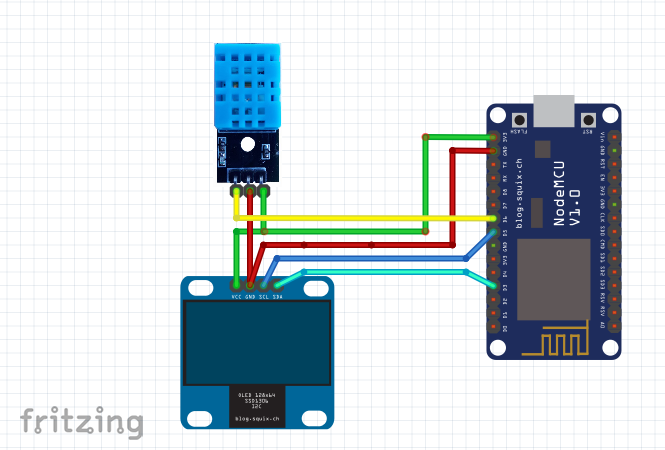
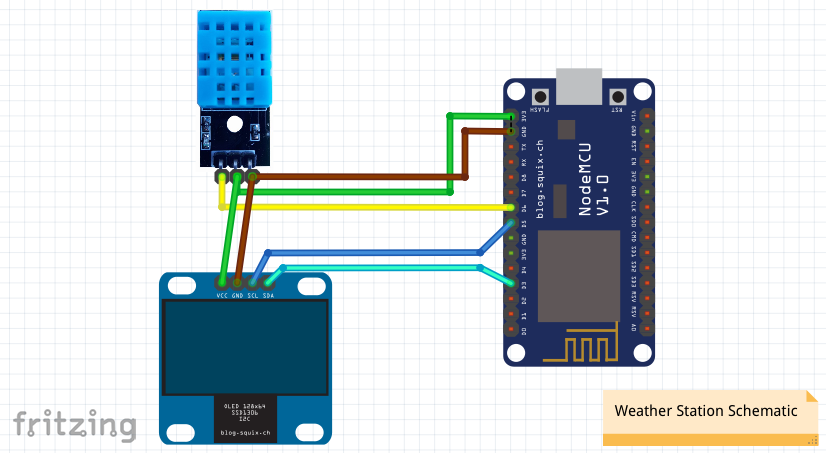
corrected pin data DHT sensor

diff --git a/README.md b/README.md
@@ -41,9 +41,9 @@ I extract only actual example code from 'squix78/esp8266-weather-station' to run
 
 DHT sensor  | ESP8266 12E
 ------------- | -------------
-pin 1 | pin D6
-vcc   | 3v3 pin
-GND   | GND pin
+pin 1 data | pin D6 - GPIO
+pin 2 vcc  | pin 3v3
+pin 3 GND  | pin GND
 
 SSD1306 OLED | ESP8266 12E
 ------------- | -------------
